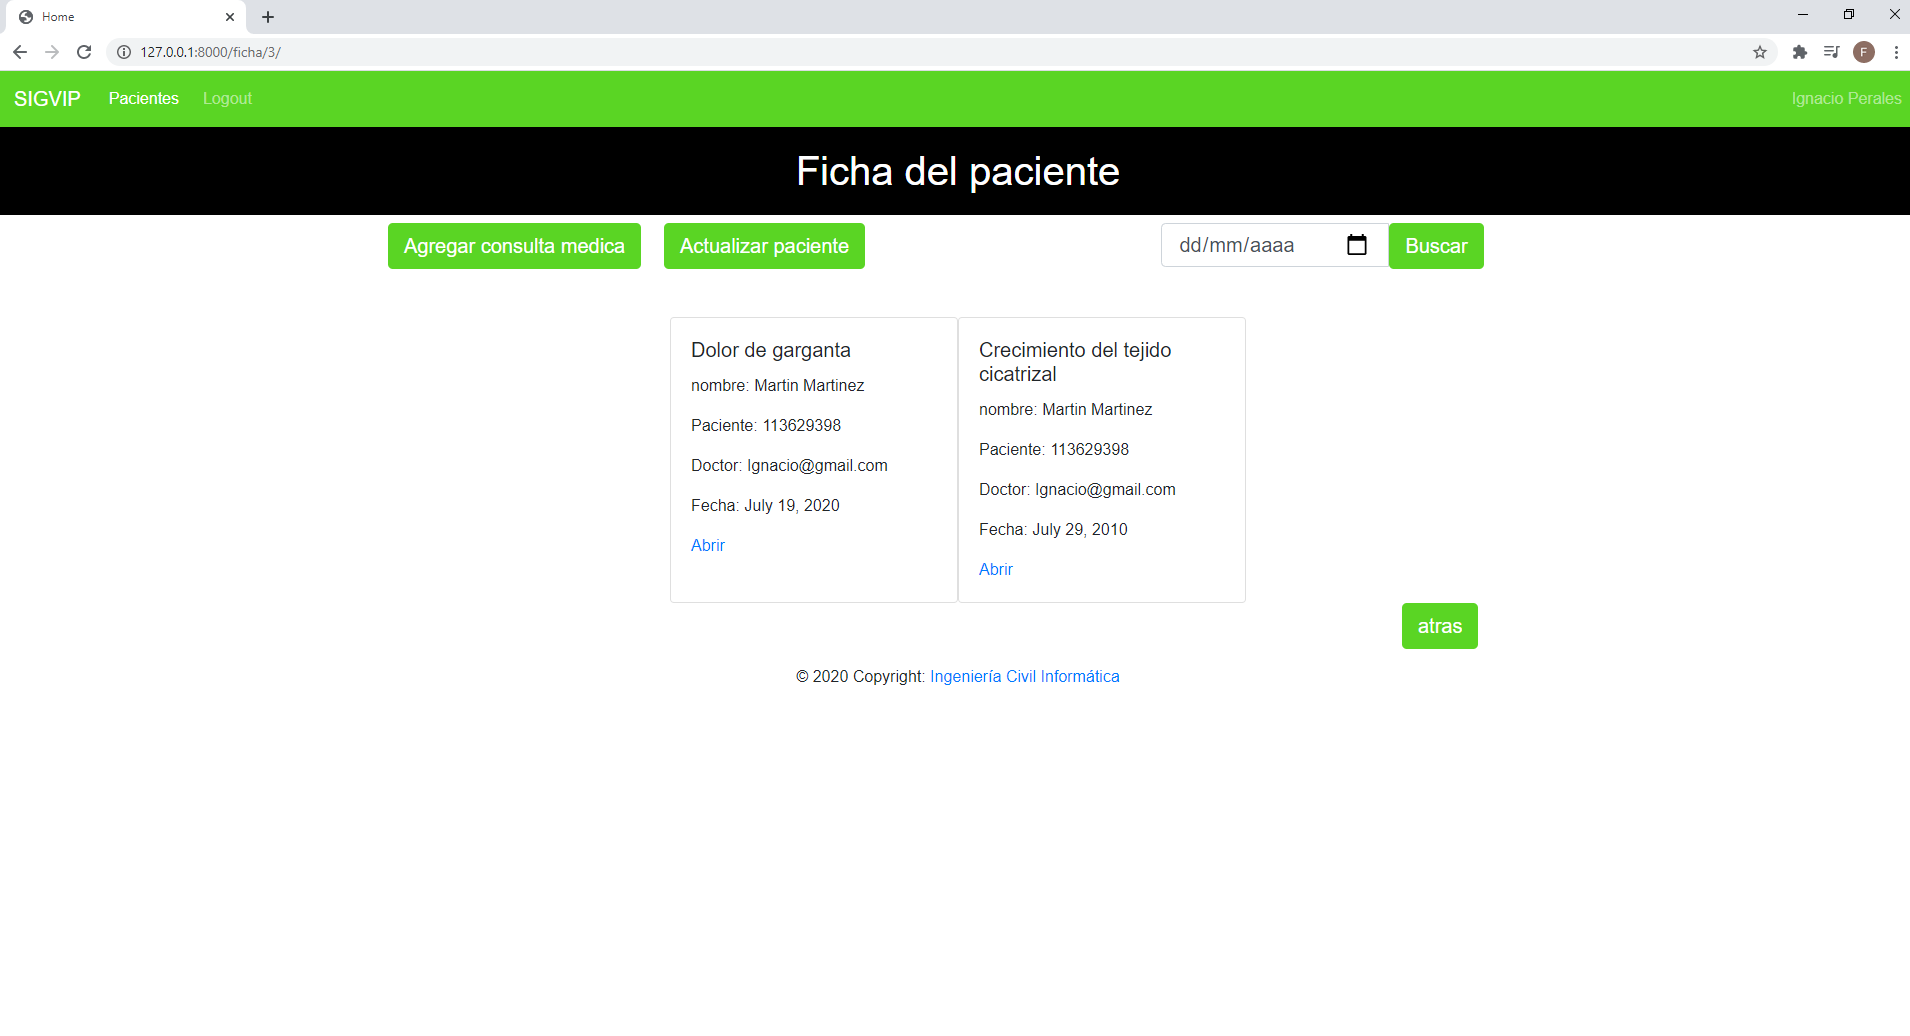
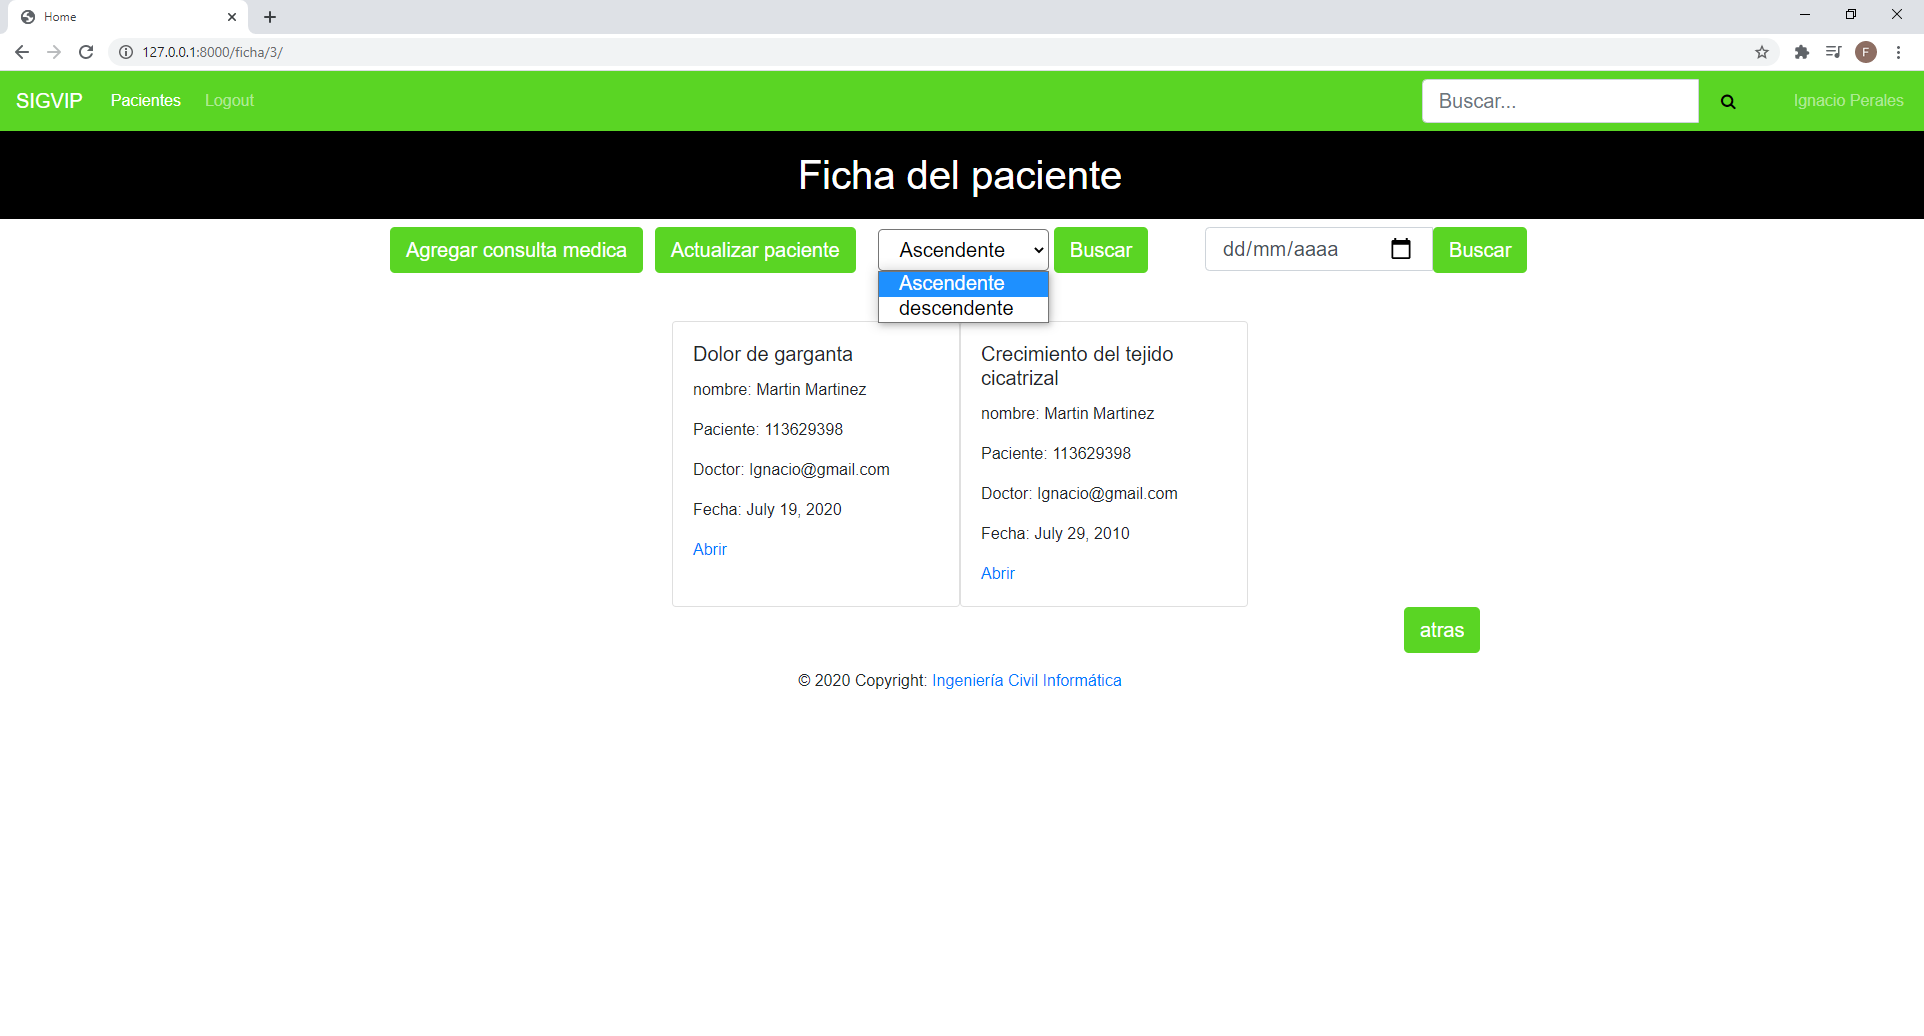
Ordenar las consultas medicas por fecha

diff --git a/SigVip Project/SigVip/ficha/templates/ficha.html b/SigVip Project/SigVip/ficha/templates/ficha.html
@@ -7,8 +7,15 @@
 <div class="container"></div>
     <div class="row">
         <a style="width: fit-content;" class="btn btn-primary btn-lg" href="create/" role="button">Agregar consulta medica</a>
-        <a style="width: fit-content;margin-left: 2%" class="btn btn-primary btn-lg" href="update/" role="button">Actualizar paciente</a>
-        <div class="search" style="width: fit-content;margin-left: 26%">
+        <a style="width: fit-content;margin-left: 1%" class="btn btn-primary btn-lg" href="update/" role="button">Actualizar paciente</a>
+        <form method="GET" style="width: fit-content;margin-left: 2%">
+            <select  class="btn-lg" name="orden">
+                <option value="Ascendente" name="Ascendente" >Ascendente</option>
+                <option value="descendente" name="Descendente" >descendente</option>
+            </select>
+            <input type="submit" class="btn-success btn-primary btn-lg" value="Buscar">
+        </form>
+        <div class="search" style="width: fit-content;margin-left: 5%">
             <form method="GET">
                 <div id="custom-search-input">
                     <div class="input-group">

diff --git a/SigVip Project/SigVip/pacientes/templates/navbar.html b/SigVip Project/SigVip/pacientes/templates/navbar.html
@@ -14,7 +14,20 @@
                 <a class="nav-link" href="{% url 'logout' %}">Logout</a>
             </li>
         </ul>
-        <span class="navbar-text">
+        <div class="search" style="width: fit-content;margin-left: 35%">
+            <form method="GET">
+                <div id="custom-search-input">
+                    <div class="input-group">
+                        <input type="text" class="form-control btn-lg" placeholder="Buscar..." name="buscar"
+                            value="{{request.GET.buscar}}">
+                        <span class="input-group-list">
+                            <button style="background-color: #5ad524;border: none;height: 44px;" type="submit"><i class="fa fa-search btn-lg"></i></button>
+                        </span>
+                    </div>
+                </div>
+            </form>
+        </div>
+        <span class="navbar-text" style="width: fit-content;margin-left: 2%">
             {{user.first_name}} {{user.last_name}}
         </span>
         {% else %}

diff --git a/SigVip Project/SigVip/pacientes/templates/pacientes.html b/SigVip Project/SigVip/pacientes/templates/pacientes.html
@@ -9,20 +9,6 @@
 <div class="container">
     <div class="row">
         <a class="btn btn-primary btn-lg" href="/paciente/create/" role="button">Agregar paciente</a>
-        <div class="search" style="margin-left: 43%">
-            <form method="get">
-                <div id="custom-search-input">
-                    <div class="input-group">
-                        <input type="text" class="form-control btn-lg" placeholder="Buscar..." name="buscar"
-                            value="{{request.GET.buscar}}">
-                        <span class="input-group-list">
-                            <i class="icon icon-search"></i>
-                            <button type="submit" class="btn-success btn-primary btn-lg">Buscar</button>
-                        </span>
-                    </div>
-                </div>
-            </form>
-        </div>
     </div>
 </div>
 <div class="container">

diff --git a/SigVip Project/SigVip/ficha/views.py b/SigVip Project/SigVip/ficha/views.py
@@ -11,12 +11,15 @@ class HomeFichaView(LoginRequiredMixin,TemplateView):
     def get(self,request,**kwargs):
         rut=kwargs["rut"]
         fromdate = request.GET.get("fromdate")
-        post = ConsultaMedica.fichas.all()
         if fromdate:
             post = ConsultaMedica.fichas.filter(Q(fecha = fromdate) & Q(rut_id=rut)).distinct
-            return render(request,'ficha.html',{'fichas':post})
         else:
-            return render(request,'ficha.html',{'fichas':ConsultaMedica.fichas.filter(rut_id=rut)})
+            orden = request.GET.get("orden")
+            if orden == 'descendente':
+                post = ConsultaMedica.fichas.filter(rut_id=rut).order_by('fecha').distinct
+            else:
+                post = ConsultaMedica.fichas.filter(rut_id=rut).distinct
+        return render(request,'ficha.html',{'fichas':post})
 
 class DetalleConsultaView(LoginRequiredMixin,TemplateView):
     def get(self,request,**kwargs):

diff --git a/SigVip Project/SigVip/pacientes/views.py b/SigVip Project/SigVip/pacientes/views.py
@@ -12,7 +12,6 @@ class HomePageView(LoginRequiredMixin,TemplateView):
 class HomePacienteView(LoginRequiredMixin,TemplateView):
     def get(self,request,**kwargs):
         queryset = request.GET.get('buscar')
-        print(queryset)
         post = Paciente.pacientes.all()
         try:
             queryset0,queryset1 = queryset.split(" ")
